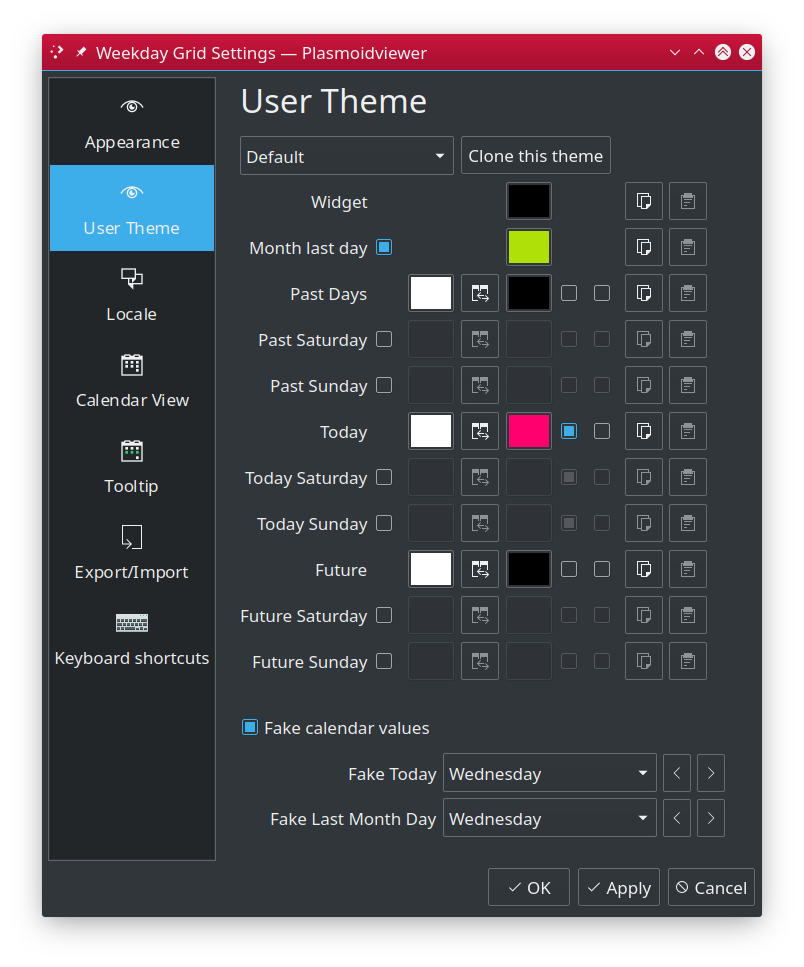
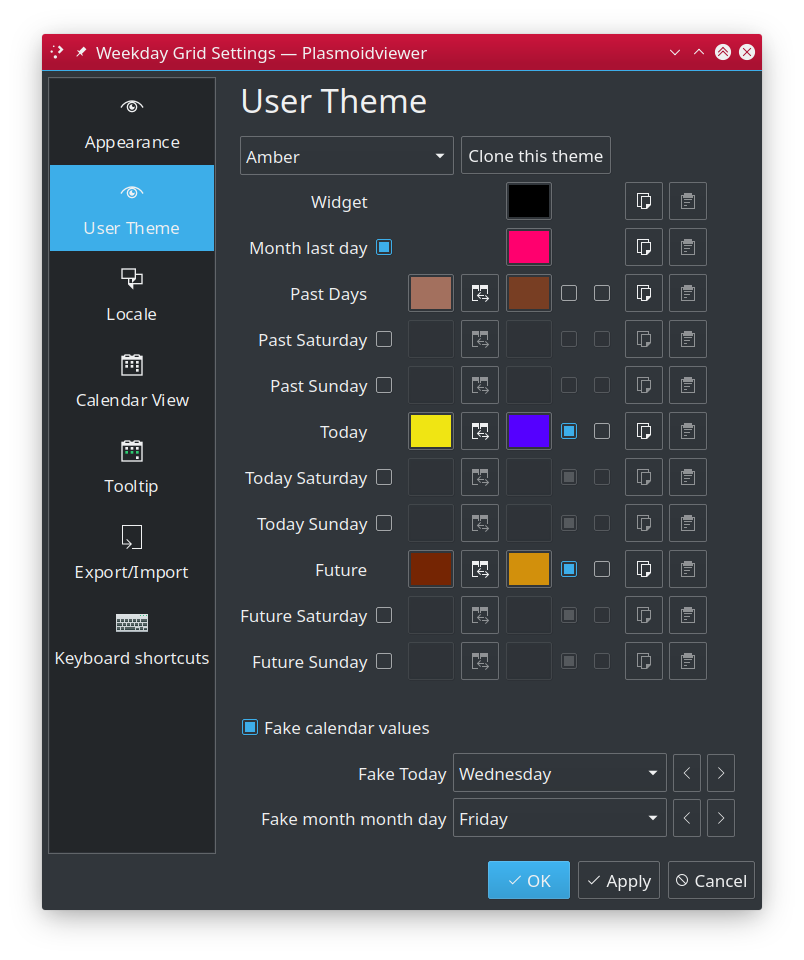
Corrected theme config name

diff --git a/src/contents/ui/configTheme.qml b/src/contents/ui/configTheme.qml
@@ -84,12 +84,7 @@ ColumnLayout {
 		Layout.fillWidth: true
 		Layout.margins: Kirigami.Units.smallSpacing
 		type: Kirigami.MessageType.Information
-		text: {
-			return !plasmoid.configuration.useUserTheme
-					? i18n('You are currently using built-in theme "%1". No changes in this pane will be reflected unless you enable "Use user theme" option in "Appearance" pane.',
-							Themes.themes[plasmoid.configuration.themeName]['theme']['name'])
-					: ''
-		}
+		text: i18n('You are currently using built-in theme. No changes in this pane will be reflected unless you enable "Use user theme" option in "Appearance" pane.')
 		showCloseButton: true
 		visible: !plasmoid.configuration.useUserTheme
 	}
@@ -254,7 +249,7 @@ ColumnLayout {
 		}
 
 		RowLayout {
-			Kirigami.FormData.label: i18n("Fake Last Month Day")
+			Kirigami.FormData.label: i18n("Fake month month day")
 			PlasmaComponents.ComboBox {
 				id: fakeLastDayMonth
 				model: [

diff --git a/README.md b/README.md
@@ -104,7 +104,7 @@ To make theme testing easier you can enable "Fake calendar" feature and manually
 such as day of today and last day of the month. All other appearance settings (incl. i.e. localization, day labels,
 first day of week) are also honored.
 
-**NOTE:** Both "Fake Today" and "Fake Last Month Day" feature previous/next navigation buttons. These will automatically commit
+**NOTE:** Both "Fake Today" and "Fake month last day" feature previous/next navigation buttons. These will automatically commit
 "Use Fake Calendar" option as enabled. This may not be reflected by "Apply" button so hitting "Cancel" will not disable
 fake calendar feature. You need to uncheck this option and "Apply" or, in case you made more changes to the settings you do
 not want to apply, close and reopen settings window, then uncheck "Use Fake Calendar" and "Apply" to disable it.
